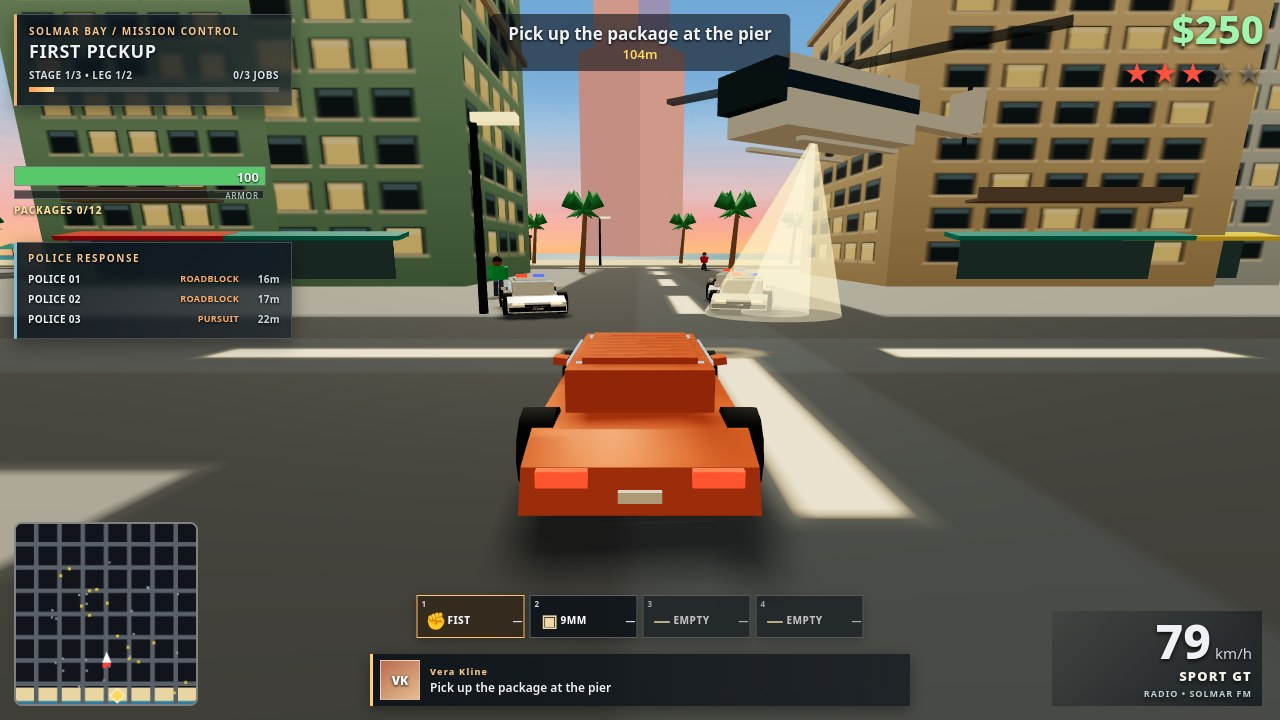
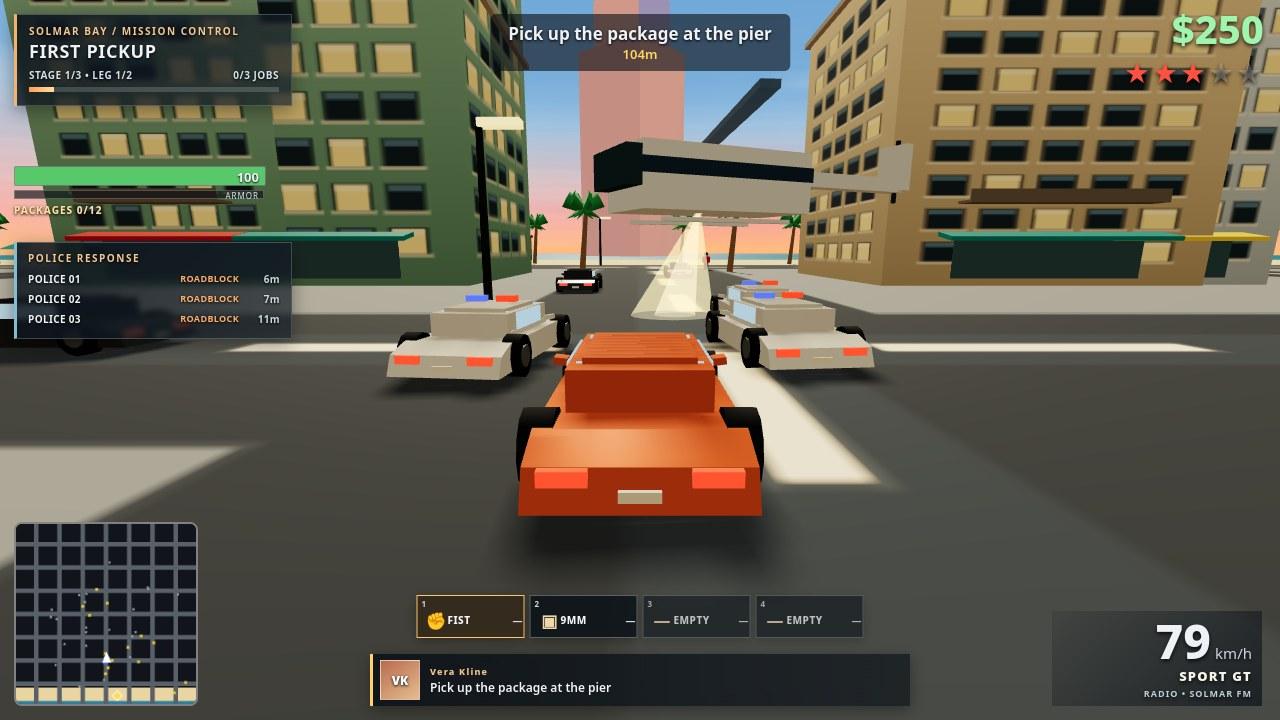
Round 10 visual push (recorded agy): heli vs pure sky, unblocked city heli, tight police pursuit, denser street traffic

diff --git a/game/src/main.js b/game/src/main.js
@@ -484,7 +484,7 @@ function clearShotLane() {
     const dx = vehicle.x - ride.x, dz = vehicle.z - ride.z;
     const forward = dx * Math.sin(ride.heading) + dz * Math.cos(ride.heading);
     const lateral = dx * Math.cos(ride.heading) - dz * Math.sin(ride.heading);
-    if (forward > -12 && forward < 110 && Math.abs(lateral) < 8) motorists.remove(vehicle);
+    if (forward > -2 && forward < 8 && Math.abs(lateral) < 1.8) motorists.remove(vehicle);
   }
 }
 function pinShot() {
@@ -492,13 +492,32 @@ function pinShot() {
   ride.speed = Math.max(22, ride.speed);
   clearShotLane();
   patrol.cars.slice(0, 3).forEach((unit, index) => {
-    const ahead = index === 0 ? 15 : index === 1 ? 16 : 21;
-    const side = index === 0 ? 4.4 : index === 1 ? -4.4 : -4.8;
+    const ahead = index === 0 ? 5.0 : index === 1 ? 5.8 : 10.5;
+    const side = index === 0 ? 3.2 : index === 1 ? -3.2 : -3.8;
     unit.x = ride.x + Math.sin(ride.heading) * ahead + Math.cos(ride.heading) * side;
     unit.z = ride.z + Math.cos(ride.heading) * ahead - Math.sin(ride.heading) * side;
-    unit.heading = Math.atan2(ride.x - unit.x, ride.z - unit.z);
+    unit.heading = ride.heading + (index === 0 ? -0.12 : index === 1 ? 0.12 : 0.05);
     unit.speed = 22;
   });
+  if (motorists.cars.length >= 3) {
+    const t0 = motorists.cars[0];
+    t0.x = ride.x + Math.sin(ride.heading) * 26 + Math.cos(ride.heading) * 3.6;
+    t0.z = ride.z + Math.cos(ride.heading) * 26 - Math.sin(ride.heading) * 3.6;
+    t0.heading = ride.heading;
+    t0.speed = 18;
+
+    const t1 = motorists.cars[1];
+    t1.x = ride.x + Math.sin(ride.heading) * 42 + Math.cos(ride.heading) * -3.4;
+    t1.z = ride.z + Math.cos(ride.heading) * 42 - Math.sin(ride.heading) * -3.4;
+    t1.heading = ride.heading;
+    t1.speed = 14;
+
+    const t2 = motorists.cars[2];
+    t2.x = ride.x + Math.sin(ride.heading) * -12 + Math.cos(ride.heading) * -3.6;
+    t2.z = ride.z + Math.cos(ride.heading) * -12 - Math.sin(ride.heading) * -3.6;
+    t2.heading = ride.heading;
+    t2.speed = 20;
+  }
 }
 function updateMedicine(delta) {
   for (const aid of firstAid) {
@@ -726,7 +745,7 @@ function setupShot(label) {
     hero.heading = 0;
     controls.setYaw(0);
     controls.setPitch(0.04);
-    town.followHeli(hero, () => controls.yaw, { forward: 22, side: -10, height: 7.8, yawOffset: 0.6 });
+    town.followHeli(hero, () => controls.yaw, { forward: 18, side: -3.5, height: 7.2, yawOffset: 0.5 });
     return;
   }
   if (label === 'mission' || label === 'chase') {
@@ -752,7 +771,7 @@ function setupShot(label) {
     // it to side +5 so it clears the PIER 9 sign in chase (sign spans x -8.5..0.5).
     controls.setPitch(0.05);
     town.followHeli(ride, () => ride.heading, {
-      forward: 15, side: -7.0, height: 7.5, yawOffset: 0.55, aimAtTarget: true,
+      forward: 14, side: -2.6, height: 4.8, yawOffset: 0.45, aimAtTarget: true,
     });
     pinShot();
     fleetView.sync(motorists.cars, patrol.cars);
